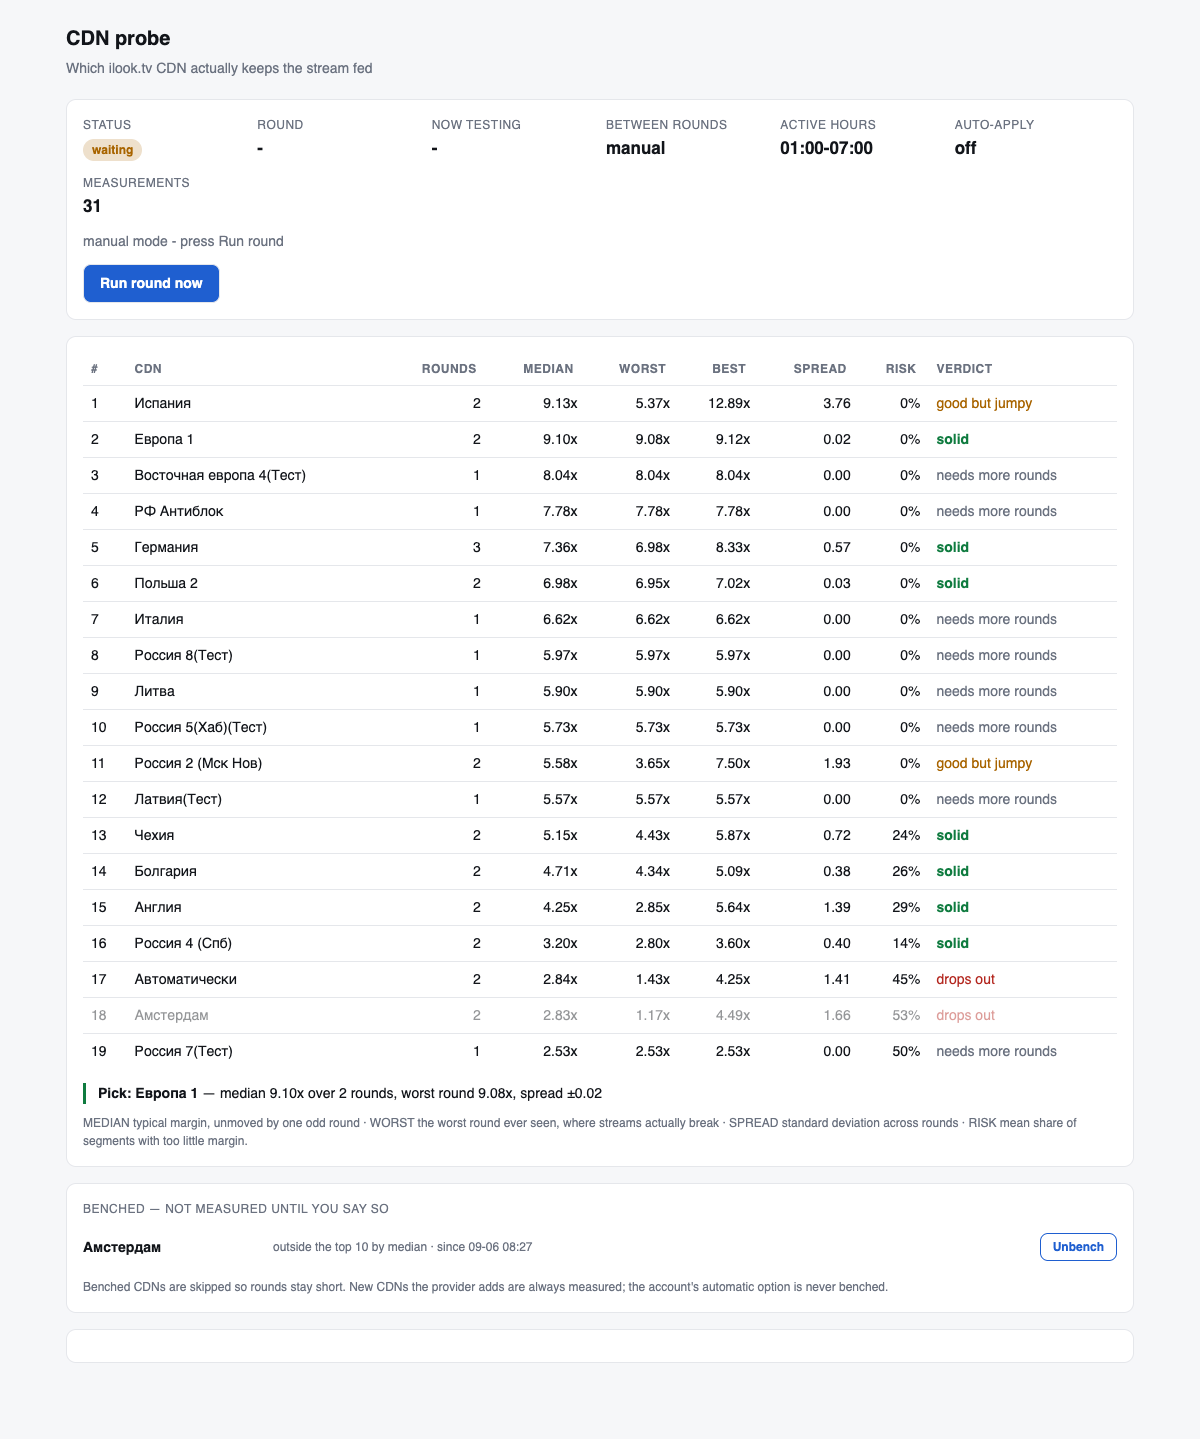
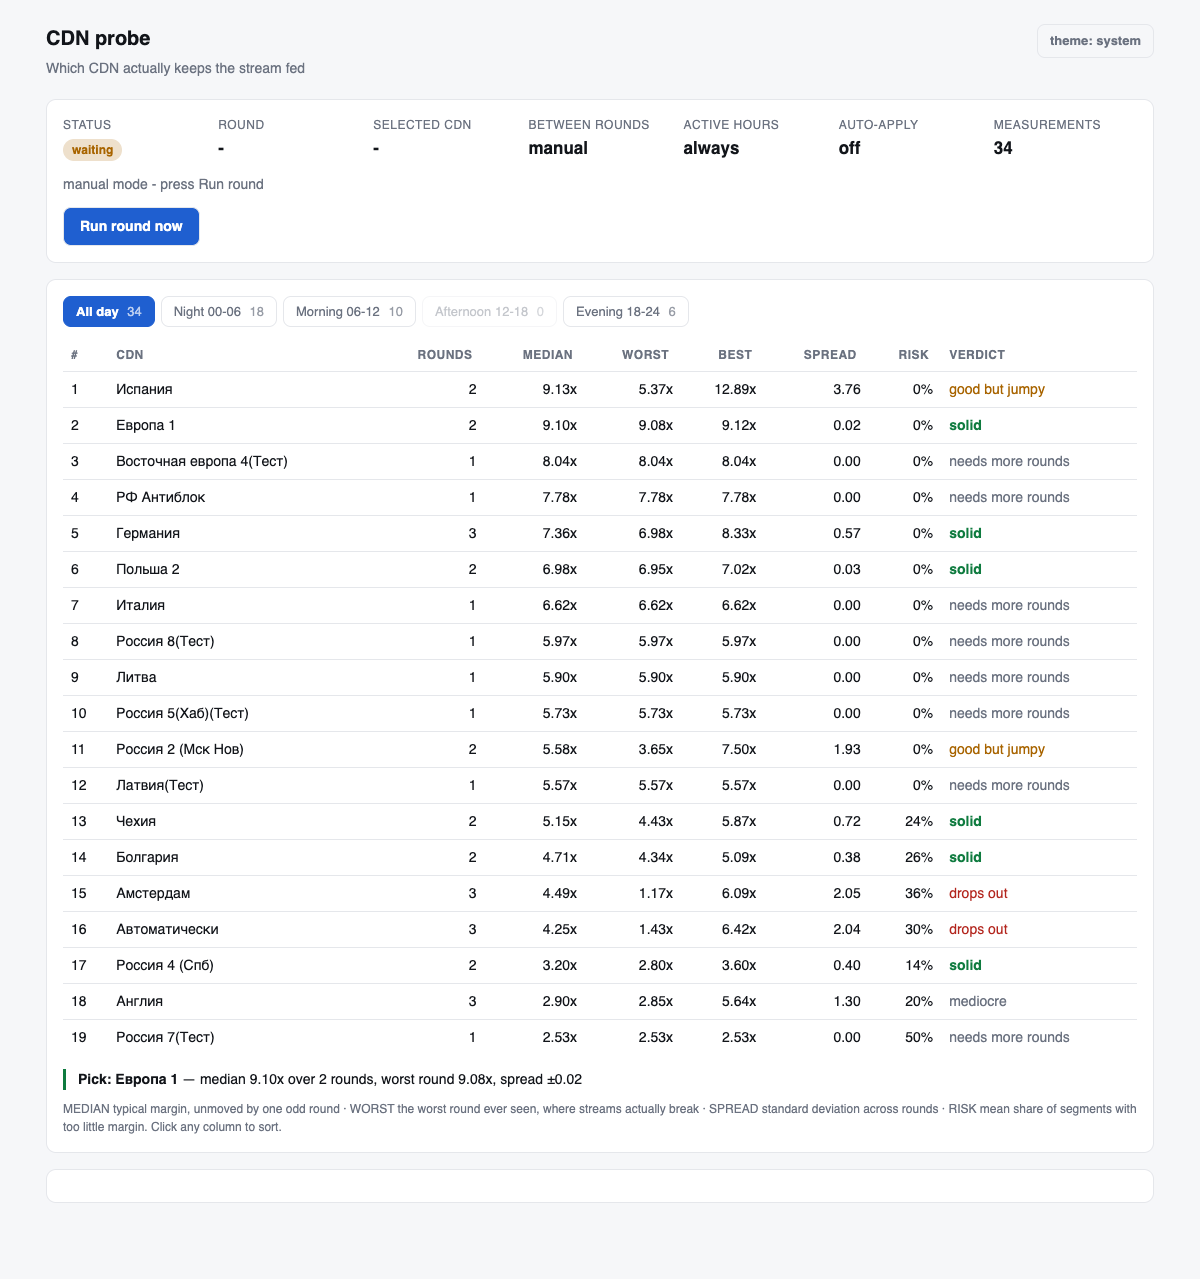
Break the statistics down by time of day
The journal always recorded when a measurement was taken and the aggregation
always ignored it, which made the headline number describe no particular
hour. On a live account the automatic option read 3.28x at 19:12 and 1.43x at
23:34, and Germany 1.81x at 22:00 against 7.36x at 23:48 - averaging those
describes neither the evening nor the night. Sliced by part of day, the best
CDN for the evening is already not the best for the night.

A round lasts hours and crosses those boundaries, so the split also corrects
a bias within a single round: CDNs measured last are measured later at night
than the ones at the start.

An empty slice is shown as empty rather than hidden. Not having measured an
hour yet is information; hiding it would read as a verdict about the CDNs.

Also fixed the live-status bar showing an empty row: an author rule with
display:flex silently defeats the browser's [hidden] handling regardless of
specificity.

diff --git a/cdnprobe/web.py b/cdnprobe/web.py
@@ -7,11 +7,12 @@ the image, so this is http.server with a hand-written handler.
 from __future__ import annotations
 
 import json
+from urllib.parse import parse_qs, urlparse
 from http.server import BaseHTTPRequestHandler, ThreadingHTTPServer
 
 from . import bench, config, storage
 from .daemon import Runner
-from .stats import aggregate, best
+from .stats import PARTS, aggregate, best, coverage
 
 PAGE = """<!doctype html>
 <html lang="en"><head>
@@ -39,6 +40,9 @@ PAGE = """<!doctype html>
   --live:#7aa2f7; --live-bg:rgba(122,162,247,.12);
 }
 *{box-sizing:border-box}
+/* Author styles beat the browser's [hidden] rule regardless of specificity,
+   so a class with display:flex would keep a hidden element visible. */
+[hidden]{display:none!important}
 body{margin:0;background:var(--bg);color:var(--ink);
   font:14px/1.5 ui-sans-serif,-apple-system,Segoe UI,Roboto,sans-serif}
 .wrap{max-width:1140px;margin:0 auto;padding:24px 16px 60px}
@@ -100,6 +104,13 @@ button.ghost:hover{color:var(--ink)}
 pre{margin:0;max-height:280px;overflow:auto;font-size:12px;color:var(--muted);
   white-space:pre-wrap}
 .scroll{overflow-x:auto}
+.tabs{display:flex;gap:6px;flex-wrap:wrap;margin-bottom:12px}
+.tabs button{background:transparent;color:var(--muted);border-color:var(--line);
+  padding:5px 12px;font-size:13px;font-weight:500}
+.tabs button.on{background:var(--accent);color:#fff;border-color:var(--accent);
+  font-weight:600}
+.tabs button:disabled{opacity:.4}
+.tabs .count{opacity:.7;font-weight:400;margin-left:5px}
 .legend{color:var(--muted);font-size:12px;margin-top:10px}
 .benched{display:flex;align-items:center;gap:10px;flex-wrap:wrap;padding:7px 0;
   border-bottom:1px solid var(--line)}
@@ -148,6 +159,7 @@ pre{margin:0;max-height:280px;overflow:auto;font-size:12px;color:var(--muted);
 </div>
 
 <div class="card">
+  <div class="tabs" id="tabs"></div>
   <div class="scroll"><table>
     <thead><tr>
       <th>#</th>
@@ -210,7 +222,9 @@ const PHASES = {
   starting:    'starting',
 };
 
-let rows = [], benched = new Set(), live = '';
+let rows = [], benched = new Set(), live = '', part = '';
+const PART_LABELS = {'': 'All day', night: 'Night 00-06', morning: 'Morning 06-12',
+  afternoon: 'Afternoon 12-18', evening: 'Evening 18-24'};
 // Default order is the server\'s: median first, ties broken by worst round.
 let sortKey = null, sortDir = -1;
 
@@ -246,8 +260,23 @@ document.querySelectorAll('th[data-key]').forEach(th => {
   };
 });
 
+function drawTabs(cov){
+  const total = Object.values(cov).reduce((a, b) => a + b, 0);
+  document.getElementById('tabs').innerHTML = Object.keys(PART_LABELS).map(k => {
+    const n = k === '' ? total : cov[k];
+    // An empty slice is disabled rather than hidden: "not measured yet" is
+    // information, and hiding it would read as a verdict about the CDNs.
+    return `<button data-part="${k}" class="${k === part ? 'on' : ''}"
+      ${n === 0 && k !== '' ? 'disabled' : ''}>${PART_LABELS[k]}
+      <span class="count">${n}</span></button>`;
+  }).join('');
+  document.querySelectorAll('#tabs button').forEach(b => {
+    b.onclick = () => { part = b.dataset.part; refresh(); };
+  });
+}
+
 async function refresh(){
-  const d = await (await fetch('api/state')).json();
+  const d = await (await fetch('api/state' + (part ? '?part=' + part : ''))).json();
   const s = d.state;
 
   const st = document.getElementById('status');
@@ -278,6 +307,7 @@ async function refresh(){
 
   rows = d.stats;
   benched = new Set(d.benched.map(b => b.cdn));
+  drawTabs(d.coverage);
   render();
 
   const card = document.getElementById('bench-card');
@@ -304,7 +334,8 @@ async function refresh(){
        ${d.pick.median.toFixed(2)}x over ${d.pick.runs} rounds, worst round
        ${d.pick.worst_run.toFixed(2)}x, spread &plusmn;${d.pick.spread.toFixed(2)}</div>`
     : `<div class="pick" style="border-color:var(--muted)">Nothing has proven
-       steady yet &mdash; each CDN needs at least two rounds.</div>`;
+       steady ${part ? 'in the ' + PART_LABELS[part].toLowerCase() : 'yet'}
+       &mdash; each CDN needs at least two rounds${part ? ' in this slot' : ''}.</div>`;
 }
 document.getElementById('run').onclick = async e => {
   e.target.disabled = true;
@@ -335,13 +366,18 @@ class Handler(BaseHTTPRequestHandler):
             self._send(200, PAGE.encode("utf-8"), "text/html; charset=utf-8")
         elif path == "/api/state":
             records = storage.load()
-            table = aggregate(records)
+            query = parse_qs(urlparse(self.path).query)
+            part = (query.get("part") or [""])[0]
+            part = part if part in PARTS else ""
+            table = aggregate(records, part=part)
             pick = best(table)
             payload = {
                 "state": self.runner.snapshot(),
                 "stats": [s.as_dict() for s in table],
                 "pick": pick.as_dict() if pick else None,
                 "measurements": len(records),
+                "part": part,
+                "coverage": coverage(records),
                 "benched": [
                     {"cdn": name, **info} for name, info in bench.load().items()
                 ],

diff --git a/tests/test_timeofday.py b/tests/test_timeofday.py
@@ -1,0 +1,90 @@
+"""Slicing the journal by part of the day.
+
+A CDN good at 2am need not be good at 9pm: one measured here read 1.81x in
+the evening and 7.36x an hour before midnight. Averaging those into a single
+number describes neither, so the same records are sliced by when they were
+taken.
+"""
+
+import os
+
+import pytest
+
+from cdnprobe.stats import aggregate, coverage, part_of_day
+
+# Fixed offset so the test does not depend on the machine's timezone.
+os.environ["TZ"] = "UTC"
+
+
+def at(hour: int, day: int = 6) -> str:
+    return f"2026-09-{day:02d}T{hour:02d}:30:00+00:00"
+
+
+def run(cdn, ratio, hour, day=6):
+    return {"cdn": cdn, "ratio_avg": ratio, "ratio_worst": 3.0,
+            "risk_share": 0.0, "confirmed": True, "at": at(hour, day)}
+
+
+class TestPartOfDay:
+    @pytest.mark.parametrize("hour,part", [
+        (0, "night"), (5, "night"),
+        (6, "morning"), (11, "morning"),
+        (12, "afternoon"), (17, "afternoon"),
+        (18, "evening"), (23, "evening"),
+    ])
+    def test_buckets(self, hour, part):
+        assert part_of_day(at(hour)) == part
+
+    def test_boundaries_belong_to_the_later_bucket(self):
+        assert part_of_day(at(6)) == "morning"   # not night
+        assert part_of_day(at(18)) == "evening"  # not afternoon
+
+    def test_unreadable_timestamp_is_not_a_crash(self):
+        assert part_of_day("not a date") == ""
+        assert part_of_day("") == ""
+
+
+class TestAggregateByPart:
+    def test_only_the_requested_part_is_counted(self):
+        records = [
+            run("X", 8.0, hour=20), run("X", 8.2, hour=21),   # evening
+            run("X", 2.0, hour=2), run("X", 2.1, hour=3),     # night
+        ]
+        evening = aggregate(records, part="evening")[0]
+        night = aggregate(records, part="night")[0]
+        assert evening.median == pytest.approx(8.1)
+        assert night.median == pytest.approx(2.05)
+        assert evening.runs == night.runs == 2
+
+    def test_the_winner_can_differ_by_part_of_day(self):
+        """The whole point: one CDN for the evening, another for the night."""
+        records = [
+            run("A", 9.0, hour=20), run("A", 9.0, hour=21),
+            run("A", 2.0, hour=2), run("A", 2.0, hour=3),
+            run("B", 4.0, hour=20), run("B", 4.0, hour=21),
+            run("B", 8.0, hour=2), run("B", 8.0, hour=3),
+        ]
+        assert aggregate(records, part="evening")[0].cdn == "A"
+        assert aggregate(records, part="night")[0].cdn == "B"
+
+    def test_no_part_means_everything(self):
+        records = [run("X", 8.0, hour=20), run("X", 2.0, hour=2)]
+        assert aggregate(records)[0].runs == 2
+
+    def test_a_part_with_no_data_yields_nothing(self):
+        assert aggregate([run("X", 8.0, hour=20)], part="afternoon") == []
+
+
+class TestCoverage:
+    def test_counts_measurements_per_part(self):
+        records = [run("X", 5.0, hour=20), run("X", 5.0, hour=21),
+                   run("X", 5.0, hour=2)]
+        assert coverage(records) == {
+            "night": 1, "morning": 0, "afternoon": 0, "evening": 2
+        }
+
+    def test_empty_journal_reports_zeros_not_absence(self):
+        """An empty slice must read as "not measured", not as a verdict."""
+        assert coverage([]) == {
+            "night": 0, "morning": 0, "afternoon": 0, "evening": 0
+        }

diff --git a/cdnprobe/stats.py b/cdnprobe/stats.py
@@ -4,8 +4,35 @@ from __future__ import annotations
 
 import statistics
 from dataclasses import asdict, dataclass
+from datetime import datetime
 
 from . import config
+
+# Parts of the day, in the container's local time. A CDN good at 2am is not
+# necessarily good at 9pm - one measured here read 1.81x in the evening and
+# 7.36x an hour before midnight - so the same journal is sliced by when the
+# measurement happened. A round lasts hours and crosses these boundaries, so
+# the split also corrects for CDNs later in a round being measured later at
+# night than the ones at the start.
+PARTS = {
+    "night": (0, 6),
+    "morning": (6, 12),
+    "afternoon": (12, 18),
+    "evening": (18, 24),
+}
+
+
+def part_of_day(at: str) -> str:
+    """Which part of the day a measurement falls in, in local time."""
+    try:
+        moment = datetime.fromisoformat(at).astimezone()
+    except (ValueError, TypeError):
+        return ""
+    hour = moment.hour
+    for name, (start, end) in PARTS.items():
+        if start <= hour < end:
+            return name
+    return ""
 
 STEADY_SPREAD = 1.5  # above this, results jump around too much to trust
 
@@ -45,13 +72,16 @@ class CdnStats:
         return data
 
 
-def aggregate(records: list[dict]) -> list[CdnStats]:
-    """Rolls journal entries up per CDN.
+def aggregate(records: list[dict], part: str = "") -> list[CdnStats]:
+    """Rolls journal entries up per CDN, optionally for one part of the day.
 
     The headline figure is the median, not the mean: one bad round - a
     measurement that caught the previous CDN's pool before the switch landed
     - shifts a mean and leaves a median alone.
     """
+    if part:
+        records = [r for r in records if part_of_day(r.get("at", "")) == part]
+
     buckets: dict[str, list[dict]] = {}
     for record in records:
         buckets.setdefault(record["cdn"], []).append(record)
@@ -76,6 +106,20 @@ def aggregate(records: list[dict]) -> list[CdnStats]:
         )
     # Ordered by median, ties broken by the worst round: steadiness wins.
     return sorted(result, key=lambda s: (-s.median, -s.worst_run))
+
+
+def coverage(records: list[dict]) -> dict[str, int]:
+    """How many measurements exist per part of the day.
+
+    Shown so an empty slice reads as "not measured yet" rather than as a
+    verdict about the CDNs.
+    """
+    counts = {name: 0 for name in PARTS}
+    for record in records:
+        name = part_of_day(record.get("at", ""))
+        if name:
+            counts[name] += 1
+    return counts
 
 
 def best(stats: list[CdnStats]) -> CdnStats | None:

diff --git a/README.ru.md b/README.ru.md
@@ -175,6 +175,26 @@ AUTO_APPLY=true
 который случайно тестировался на рассвете, — ровно наоборот тому, что
 обещает настройка.
 
+## Время суток
+
+Тот же журнал читается по частям суток — ночь 00-06, утро 06-12, день 12-18,
+вечер 18-24, по местному времени контейнера (`TZ`). Переключается вкладками на
+дашборде.
+
+Это не украшение. На живом аккаунте «Автоматически» дал 3.28x в 19:12 и 1.43x
+в 23:34; Германия — 1.81x в 22:00 и 7.36x в 23:48. Усреднённые в одно число,
+они не описывают ни вечер, ни ночь. В разбивке оказалось, что лучший CDN для
+вечера — не тот, что для ночи.
+
+Круг идёт часами и пересекает эти границы, так что разбивка чинит и перекос
+внутри одного круга: CDN, замеренные последними, меряются позже ночью, чем
+те, что в начале.
+
+Каждому срезу нужны свои два круга на CDN, прежде чем он что-то порекомендует,
+так что поначалу срезы будут пустыми. Срез без данных показывается пустым, а
+не прячется: «ещё не мерили» — это информация, а спрятать её значило бы выдать
+за вердикт.
+
 ## Бан безнадёжных
 
 Круг стоит около пяти минут на CDN, поэтому двадцать штук — это часы. Когда CDN

diff --git a/README.md b/README.md
@@ -12,7 +12,7 @@ Several resellers run the same OTTClub panel — **ilook.tv** and
 **vipdrive.net** among them — so point `PANEL_URL` at whichever one your
 subscription is with.
 
-![tests](https://img.shields.io/badge/tests-99%20passing-brightgreen)
+![tests](https://img.shields.io/badge/tests-115%20passing-brightgreen)
 ![docker](https://img.shields.io/badge/docker-1.32GB-blue)
 
 ![dashboard](dashboard.png)
@@ -138,6 +138,27 @@ rather than the best median.
 `ROUND_PAUSE=manual` holds the daemon still until you press **Run round** on
 the dashboard. Handy if you only want to measure during the hours you
 actually watch.
+
+## Time of day
+
+The same journal can be read for one part of the day at a time — night 00-06,
+morning 06-12, afternoon 12-18, evening 18-24, in the container's local time
+(`TZ`). Tabs on the dashboard switch between them.
+
+This is not a nicety. Measured on a live account, the automatic option read
+3.28x at 19:12 and 1.43x at 23:34; Germany read 1.81x at 22:00 and 7.36x at
+23:48. Averaged into one number, neither the evening nor the night is
+described. Sliced, the best CDN for the evening turned out not to be the best
+for the night.
+
+A round lasts hours and crosses these boundaries, so the split also corrects
+for a bias inside a single round: the CDNs measured last are measured later
+at night than the ones at the start.
+
+Each slice needs its own two rounds per CDN before it recommends anything, so
+expect empty slices at first. A slice with no data is shown as such rather
+than hidden — "not measured yet" is information, and hiding it would read as
+a verdict.
 
 ## Benching the hopeless ones
 
